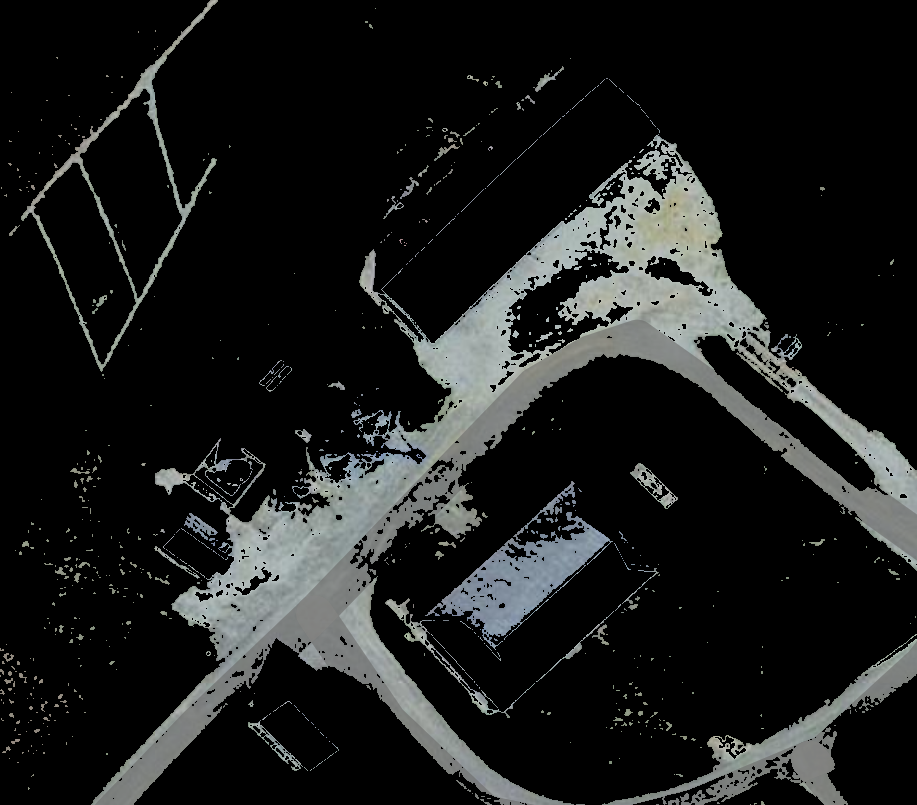
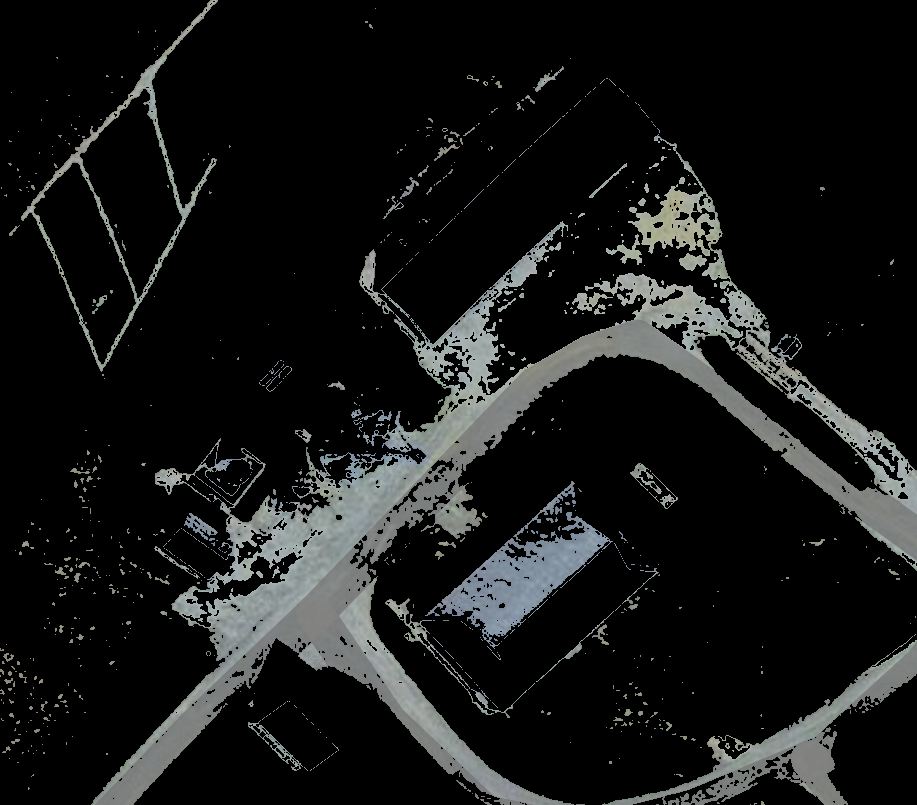
Adjusted color segmentation parameters.

diff --git a/road_detection/road_detect.py b/road_detection/road_detect.py
@@ -8,7 +8,7 @@ import cv2
 
 """ Lower and upper RGB limits """
 lower  = 120
-upper = 190
+upper = 180
 
 """ Load images """
 # Load and display images
